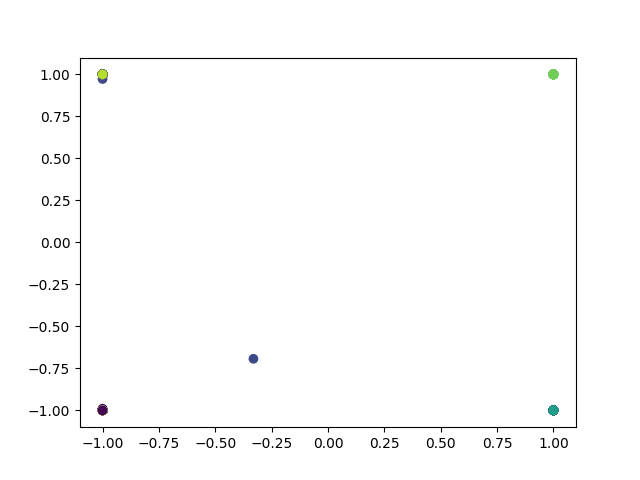
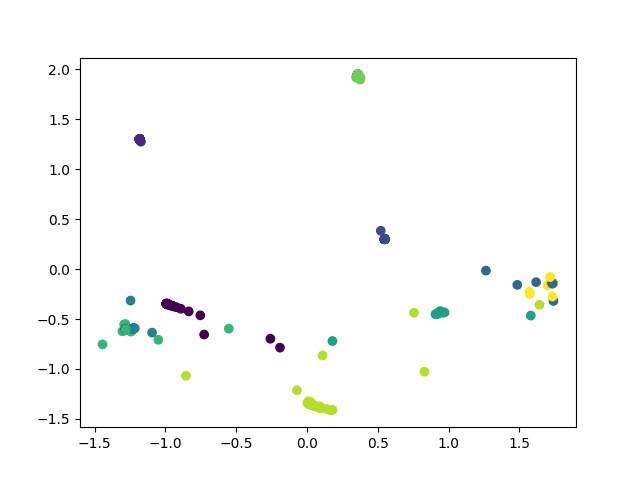
try to use dim reducing techniques instead

diff --git a/volume/net.py b/volume/net.py
@@ -1,9 +1,9 @@
+from audioop import bias
 import torch
 from torch import nn 
 import warnings
+from itertools import chain
 
-from torch._C import BenchmarkExecutionStats
-from torch.nn.modules.conv import Conv2d
 warnings.filterwarnings("ignore", category=UserWarning)
 
 
@@ -33,7 +33,7 @@ class BenjaBlock(nn.Module):
         return H
 
 
-class Benja(nn.Module):
+class Mamiew(nn.Module):
     def __init__(self):
         super().__init__()
 
@@ -45,56 +45,33 @@ class Benja(nn.Module):
             BenjaBlock(64, 64),
             nn.MaxPool2d(kernel_size=2),
         )
+
+        self.fcs = nn.Sequential(
+            nn.Linear(7*7*64, 1024, bias=False),
+            nn.ReLU(),
+            nn.BatchNorm1d(1024),
+            *chain.from_iterable([
+                (nn.Linear(1024, 1024, bias=False),nn.ReLU(),nn.BatchNorm1d(1024)) 
+                for i in range(1)
+            ])
+            # *chain.from_iterable([
+            #     (nn.Linear(i,i-2, bias=False),nn.ReLU(),nn.BatchNorm1d(i-2)) 
+            #     for i in range(128, 2, -2)
+            # ])
+        )
         
-        self.fc1 = nn.Linear(7*7*64, 128, bias=False)
-        self.bn1 = nn.BatchNorm1d(128)
-        self.fc2 = nn.Linear(128, 128, bias=False)
-        self.bn2 = nn.BatchNorm1d(128)
-        self.fc3 = nn.Linear(128, 16)
-        self.fc4 = nn.Linear(16, 10)
+        self.fc1 = nn.Linear(1024, 8)
+        self.fc2 = nn.Linear(8, 10)
         
-        self.relu = nn.ReLU()
         self.sigmoid = nn.Sigmoid()
         self.tanh = nn.Tanh()
 
     def forward(self, X: torch.Tensor):
         """Returns predicitions, and latest latent representation"""
         H = self.convs(X)
-        H = self.fc1(H.view(len(X), -1))
-        H = self.bn1(self.relu(H))
-        H = self.fc2(H)
-        H = self.bn2(self.relu(H))
-        H = self.tanh(self.fc3(H))
-        return self.sigmoid(self.fc4(H)), H
-
-
-# class Benja(nn.Module):
-#     def __init__(self):
-#         super().__init__()
-
-#         self.convs = nn.Sequential(
-#             nn.Conv2d(1, 32, 3, padding='same'),
-#             nn.ReLU(),
-#             nn.Conv2d(32, 64, 3, padding='same'),
-#             nn.ReLU(),
-#             nn.MaxPool2d(2),
-#             nn.Flatten(),
-#             nn.Linear(14*14*64, 128)
-#         )
-
-#         self.fc2 = nn.Linear(128, 128)
-#         self.fc3 = nn.Linear(128, 2)
-#         self.fc4 = nn.Linear(2, 10)
-
-#         self.relu = nn.ReLU()
-#         self.sigmoid = nn.Sigmoid()
-
-#     def forward(self, X: torch.Tensor):
-#         """Returns predicitions, and latest latent representation"""
-#         H = self.convs(X)
-#         H = self.relu(self.fc2(H))
-#         H = self.fc3(H)
-#         return self.sigmoid(self.fc4(H)), H.detach()
+        H = self.fcs(H.view(len(X), -1))
+        H = self.tanh(self.fc1(H))
+        return self.sigmoid(self.fc2(H)), H
 
 
 def oneVsAll(y_pred: torch.Tensor, y_true: torch.Tensor) -> torch.Tensor:
@@ -107,4 +84,4 @@ def oneVsAll(y_pred: torch.Tensor, y_true: torch.Tensor) -> torch.Tensor:
     
 if __name__ == '__main__':
     X = torch.randint(0, 10, size=[4,1,28,28], dtype=torch.float32)
-    model = Benja()
+    model = Mamiew()

diff --git a/volume/main.py b/volume/main.py
@@ -1,19 +1,20 @@
 from dataload import generator
-from net import Benja, oneVsAll
+from net import Mamiew, oneVsAll
 from torch.optim import AdamW
 import torch
 from torch import nn
 from tqdm import tqdm
 from matplotlib import pyplot as plt 
+from sklearn.decomposition import PCA
 
 
 def train_loop(model, device):
     criterion = oneVsAll
-    criterion = nn.CrossEntropyLoss()
-    optimizer = AdamW(model.parameters(), lr=1e-4, weight_decay=1e-2)
+    # criterion = nn.CrossEntropyLoss()
+    optimizer = AdamW(model.parameters(), lr=5e-3, weight_decay=0.5)
 
-    for epoch in range(50):
-        gen = generator(device=device)
+    for epoch in range(100):
+        gen = generator(device=device, range_=(0,2048))
         for Xs, ys in tqdm(gen, disable=True):
             pred, latent = model(Xs)
             loss = criterion(pred, ys.ravel())
@@ -22,7 +23,7 @@ def train_loop(model, device):
             loss.backward()
             optimizer.step()
 
-    X = latent.detach().cpu().numpy().T
+    X = PCA(n_components=2).fit_transform(latent.detach().cpu().numpy()).T
     c = ys.detach().cpu().numpy().reshape(-1)
     plt.scatter(*X, c=c)
     plt.savefig("hehe.png")
@@ -30,5 +31,5 @@ def train_loop(model, device):
 
 if __name__ == '__main__':
     device = torch.device('cuda', 1)
-    model = Benja().to(device)
+    model = Mamiew().to(device)
     train_loop(model, device)

diff --git a/volume/mock.py b/volume/mock.py
@@ -1,2 +1,4 @@
-print(60_000 // 64)
-print(937*64)
+from torch import nn
+from itertools import chain
+
+print(*chain.from_iterable([(nn.Linear(i,i-2, bias=False),nn.ReLU(),nn.BatchNorm1d(i-2)) for i in range(128, 2, -2)]))
